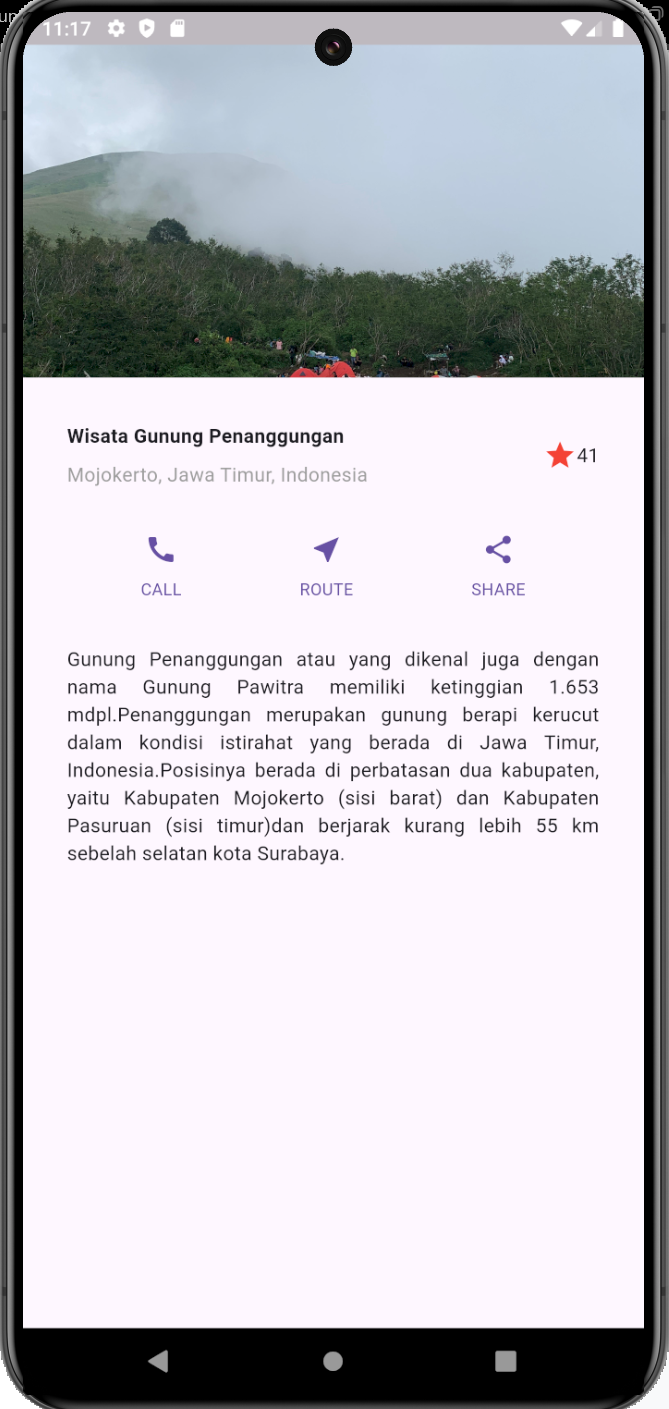
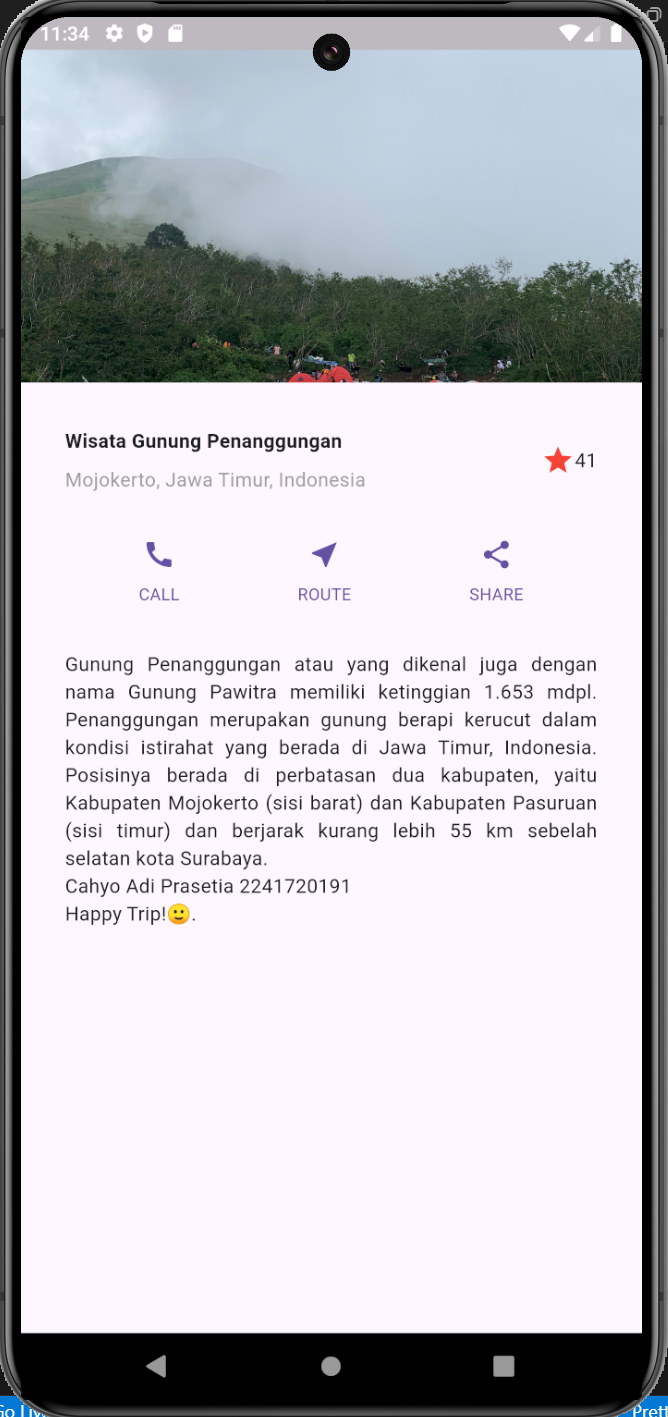
update README

diff --git a/pertemuan 6/layout_flutter/README.md b/pertemuan 6/layout_flutter/README.md
@@ -90,11 +90,14 @@ final Widget titleSection = Container(
     Widget textSection = Container(
       padding: const EdgeInsets.all(32),
       child: const Text(
-        'Gunung Penanggungan atau yang dikenal juga dengan nama Gunung Pawitra memiliki ketinggian 1.653 mdpl.'
+        'Gunung Penanggungan atau yang dikenal juga dengan nama Gunung Pawitra memiliki ketinggian 1.653 mdpl.\t'
         'Penanggungan merupakan gunung berapi kerucut dalam kondisi istirahat yang berada di Jawa Timur, Indonesia.'
-        'Posisinya berada di perbatasan dua kabupaten, yaitu Kabupaten Mojokerto (sisi barat) dan Kabupaten Pasuruan (sisi timur)' 
-        'dan berjarak kurang lebih 55 km sebelah selatan kota Surabaya.',
+        '\tPosisinya berada di perbatasan dua kabupaten, yaitu Kabupaten Mojokerto (sisi barat) dan Kabupaten Pasuruan (sisi timur)\t' 
+        'dan berjarak kurang lebih 55 km sebelah selatan kota Surabaya.\n'
+        'Cahyo Adi Prasetia\t2241720191\n'
+        'Happy Trip!🙂.',
         softWrap: true,
+        textAlign: TextAlign.justify,
       ),
     );
 ```
